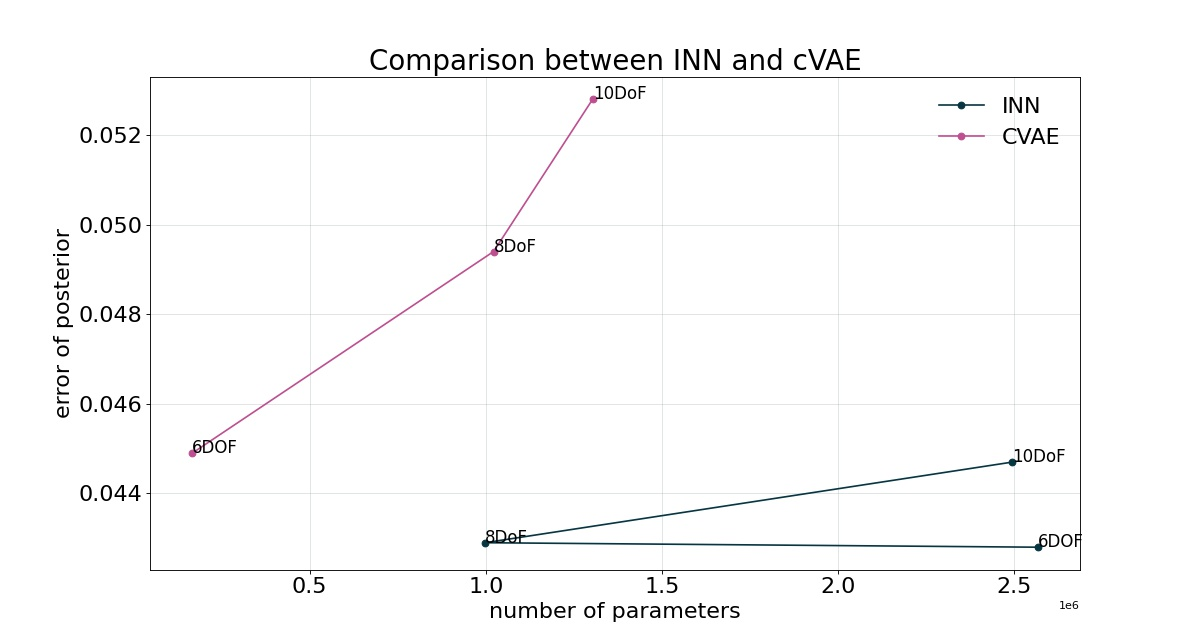
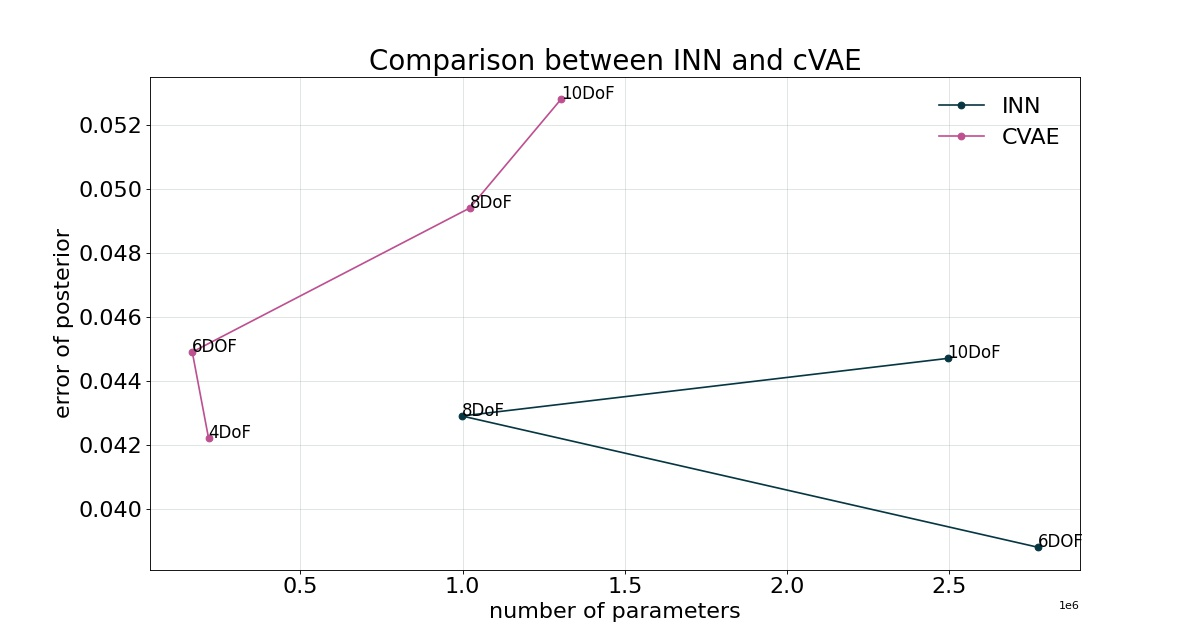
final report updated

diff --git a/src/visualize_results.py b/src/visualize_results.py
@@ -35,24 +35,24 @@ if __name__ == '__main__':
 
     # INN: # of parameters
     # dummy values for now
-    params_INN = [2566284, 997884, 2494380]
+    params_INN = [2772084, 997884, 2494380]
 
     # INN: e_posterior
     # dummy values for now
-    e_posterior_INN = [0.0428, 0.0429, 0.0447]
-    e_resim_INN = [0.0100, 0.0035, 0.0038]
+    e_posterior_INN = [0.0388, 0.0429, 0.0447]
+    e_resim_INN = [0.0041, 0.0035, 0.0038]
 
     # CVAE: # of parameters
     # dummy values for now
-    params_CVAE = [166814, 1022020, 1303226]
+    params_CVAE = [217128, 166814, 1022020, 1303226]
 
     # CVAE: e_posterior
     # dummy values for now
-    e_posterior_CVAE = [0.0449, 0.0494, 0.0528]
-    e_resim_CVAE = [0.0002, 0.0007, 0.0012]
+    e_posterior_CVAE = [0.0422, 0.0449, 0.0494, 0.0528]
+    e_resim_CVAE = [7.6100e-05, 0.0002, 0.0007, 0.0012]
 
     # annotations
-    annotations_cVAE = ['6DOF', '8DoF', '10DoF']
+    annotations_cVAE = ['4DoF', '6DOF', '8DoF', '10DoF']
     annotations_INN = ['6DOF', '8DoF', '10DoF']
 
     ####################################################################################################################
